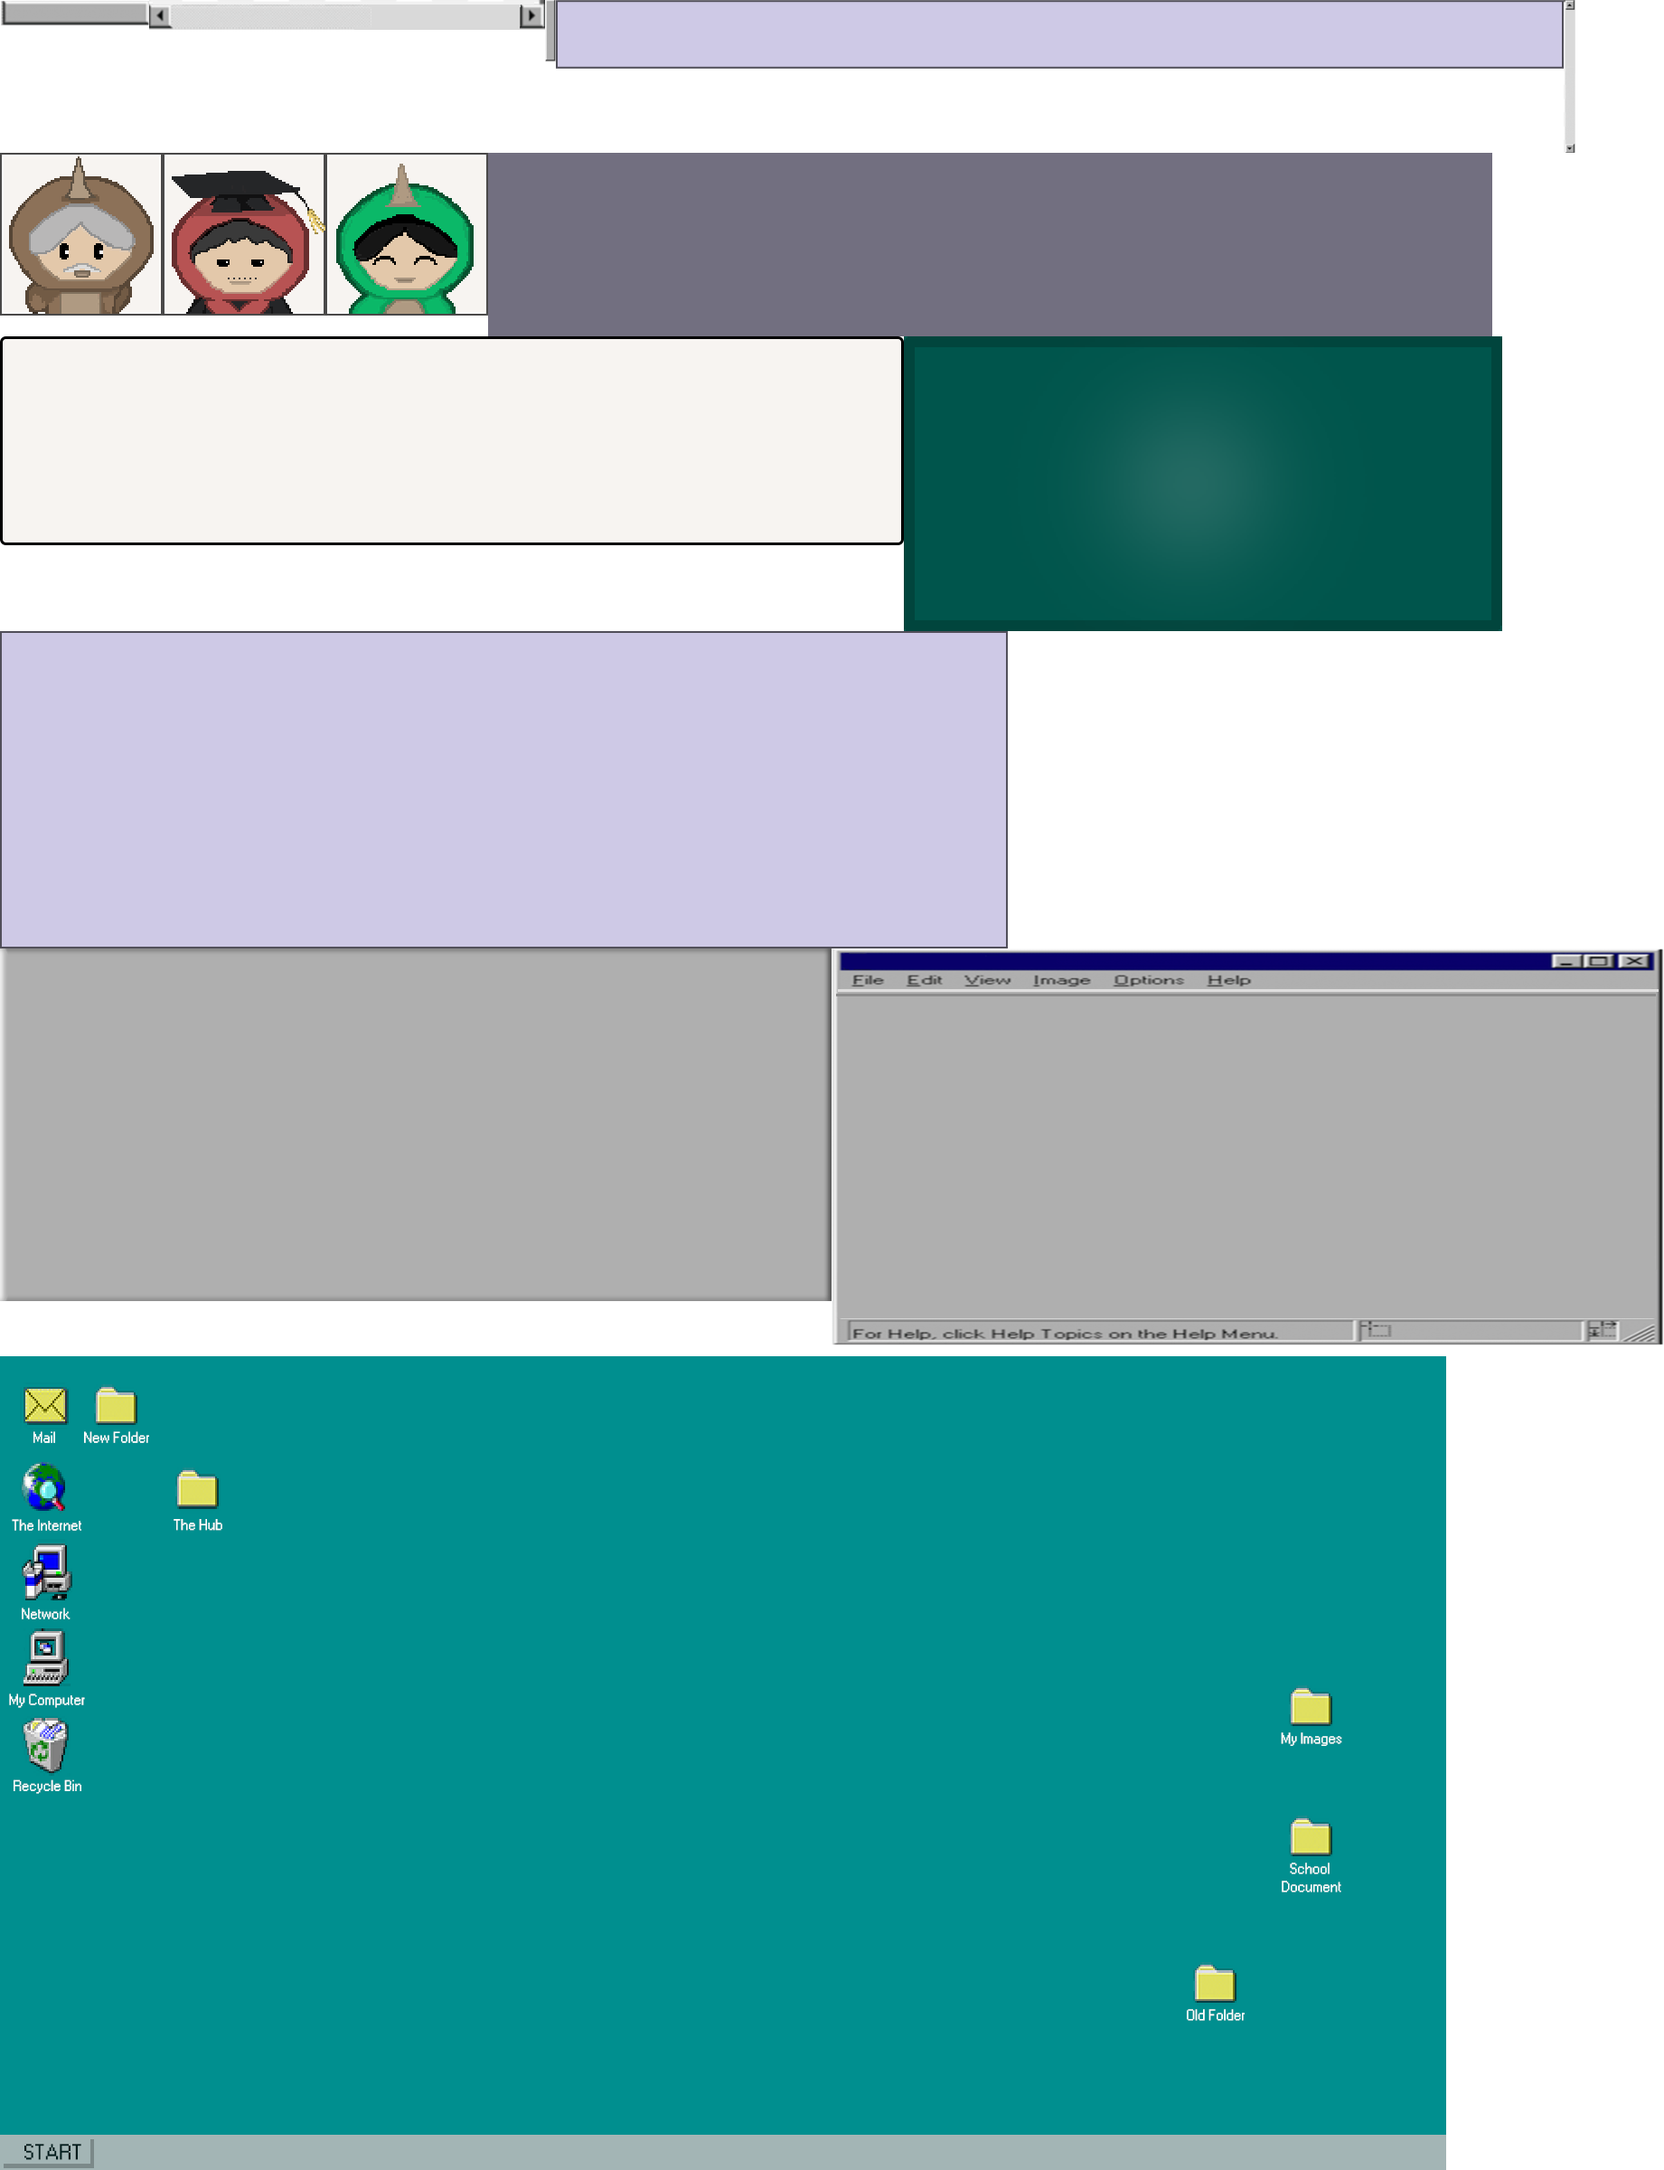
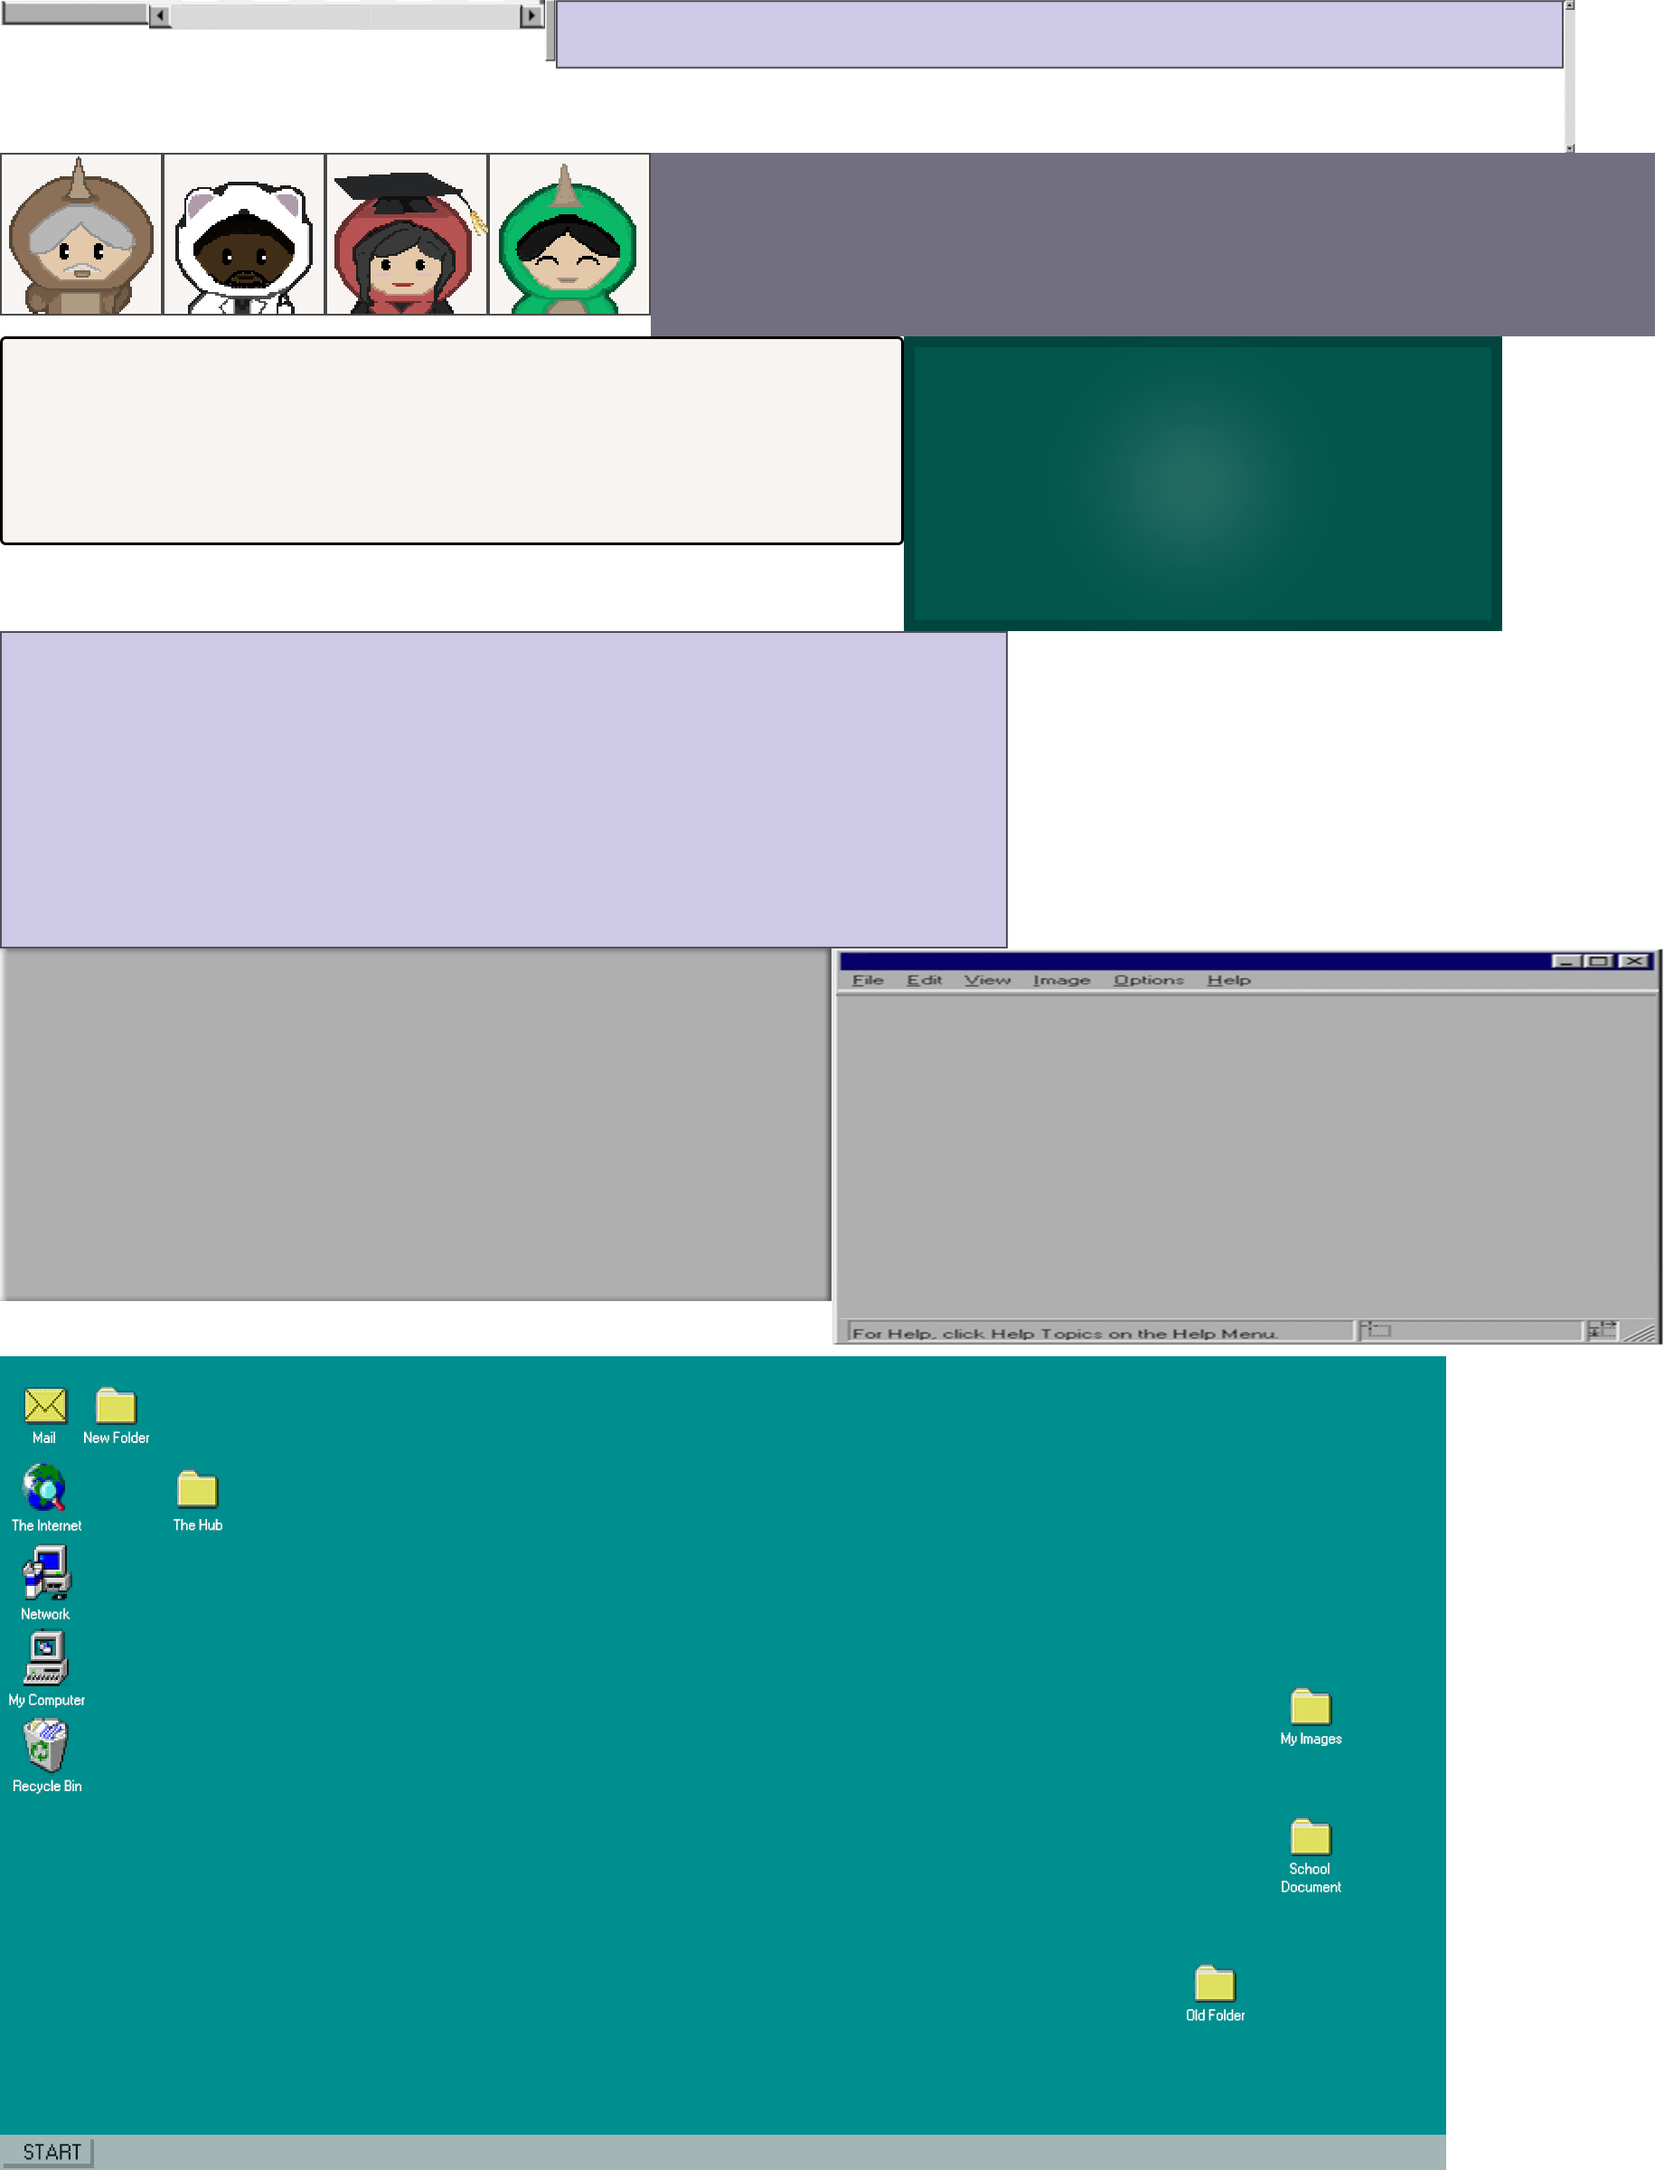
jedisaur sprites

Changed region(s): [[0.0929, 0.0625, 0.4025, 0.1562], [0.8979, 0.0625, 1.0, 0.1562]]

diff --git a/core/src/com/codex/learning/entity/characters/NPC.java b/core/src/com/codex/learning/entity/characters/NPC.java
@@ -22,10 +22,10 @@ import com.codex.learning.utility.Manager;
 
 public class NPC extends Entity {
 
-    private TextureRegion jediGrandpaDown, jediProfDown;
-    private TextureRegion jediGrandpaLeft, jediProfLeft;
-    private TextureRegion jediGrandpaRight, jediProfRight;
-    private TextureRegion jediGrandpaTop, jediProfTop;
+    private TextureRegion jediGrandpaDown, jediProfDown, jediOfficeDown;
+    private TextureRegion jediGrandpaLeft, jediProfLeft, jediOfficeLeft;
+    private TextureRegion jediGrandpaRight, jediProfRight, jediOfficeRight;
+    private TextureRegion jediGrandpaTop, jediProfTop, jediOfficeTop;
     private String direction;
     private boolean inContact;
     private boolean talking;
@@ -51,10 +51,12 @@ public class NPC extends Entity {
         //provides an image of the NPC on the left hand side of the table
 
         image = new Table(manager.getSkin());
-        if(manager.getStageSelector().map().equals("1") || manager.getStageSelector().map().equals("3")){
+        if(manager.getStageSelector().map().equals("1")){
             image.setBackground("jediGrandpaAvatar");
         }else if(manager.getStageSelector().map().equals("2")){
             image.setBackground("jediProfAvatar");
+        }else{
+            image.setBackground("jediOfficeAvatar");
         }
 
         //style of the label (text) that will be added in the table
@@ -103,14 +105,22 @@ public class NPC extends Entity {
         jediGrandpaDown = new TextureRegion(manager.getSpriteSheet(), Constants.JEDI_GRANDPA_X, Constants.JEDI_GRANDPA_Y,
                 Constants.JEDI_GRANDPA_WIDTH,Constants.JEDI_GRANDPA_HEIGHT);
         jediProfDown = new TextureRegion(manager.getSpriteSheet(), Constants.JEDI_PROF_X, Constants.JEDI_PROF_Y, Constants.JEDI_PROF_WIDTH, Constants.JEDI_PROF_HEIGHT);
+        jediOfficeDown = new TextureRegion(manager.getSpriteSheet(), Constants.JEDI_MANAGER_X, Constants.JEDI_MANAGER_Y, Constants.JEDI_MANAGER_WIDTH, Constants.JEDI_MANAGER_HEIGHT);
 
         jediGrandpaLeft = new TextureRegion(manager.getSpriteSheet(), Constants.JEDI_GRANDPA_LEFT_X, Constants.JEDI_GRANDPA_SIDE_Y, Constants.JEDI_GRANDPA_SIDE_WIDTH, Constants.JEDI_GRANDPA_SIDE_HEIGHT);
         jediProfLeft = new TextureRegion(manager.getSpriteSheet(), Constants.JEDI_PROF_LEFT_X, Constants.JEDI_PROF_SIDE_Y, Constants.JEDI_PROF_SIDE_WIDTH, Constants.JEDI_PROF_SIDE_HEIGHT);
+        jediOfficeLeft = new TextureRegion(manager.getSpriteSheet(), Constants.JEDI_MANAGER_LEFT_X, Constants.JEDI_MANAGER_SIDE_Y, Constants.JEDI_MANAGER_SIDE_WIDTH, Constants.JEDI_MANAGER_SIDE_HEIGHT);
+
 
         jediGrandpaRight = new TextureRegion(manager.getSpriteSheet(), Constants.JEDI_GRANDPA_RIGHT_X, Constants.JEDI_GRANDPA_SIDE_Y, Constants.JEDI_GRANDPA_SIDE_WIDTH, Constants.JEDI_GRANDPA_SIDE_HEIGHT);
+        jediProfRight = new TextureRegion(manager.getSpriteSheet(), Constants.JEDI_PROF_RIGHT_X, Constants.JEDI_PROF_SIDE_Y, Constants.JEDI_PROF_SIDE_WIDTH, Constants.JEDI_PROF_SIDE_HEIGHT);
+        jediOfficeRight = new TextureRegion(manager.getSpriteSheet(), Constants.JEDI_MANAGER_RIGHT_X, Constants.JEDI_MANAGER_SIDE_Y, Constants.JEDI_MANAGER_SIDE_WIDTH, Constants.JEDI_MANAGER_SIDE_HEIGHT);
+
 
         jediGrandpaTop = new TextureRegion(manager.getSpriteSheet(), Constants.JEDI_GRANDPA_TOP_X, Constants.JEDI_GRANDPA_TOP_Y, Constants.JEDI_GRANDPA_TOP_WIDTH, Constants.JEDI_GRANDPA_TOP_HEIGHT);
         jediProfTop = new TextureRegion(manager.getSpriteSheet(), Constants.JEDI_PROF_TOP_X, Constants.JEDI_PROF_TOP_Y, Constants.JEDI_PROF_TOP_WIDTH, Constants.JEDI_PROF_TOP_HEIGHT);
+        jediOfficeTop = new TextureRegion(manager.getSpriteSheet(), Constants.JEDI_MANAGER_TOP_X, Constants.JEDI_MANAGER_TOP_Y, Constants.JEDI_MANAGER_TOP_WIDTH, Constants.JEDI_MANAGER_TOP_HEIGHT);
+
 
         direction = "south";
 //        dialogueSkin = new TextureRegion(manager.getPcStateSheet(), Constants.PC_QUESTION_X, Constants.PC_QUESTION_Y, Constants.PC_QUESTION_WIDTH, Constants.PC_QUESTION_HEIGHT);
@@ -127,7 +137,7 @@ public class NPC extends Entity {
         sprite.enableBlending();
         sprite.setProjectionMatrix(manager.getCamera().combined);
         sprite.begin();
-        if(manager.getStageSelector().map().equals("1") || (manager.getStageSelector().map().equals("3"))){
+        if(manager.getStageSelector().map().equals("1")){
             if(isTalking()){
                 switch (direction){
                     case "north":
@@ -154,11 +164,57 @@ public class NPC extends Entity {
             }
 
         }else if(manager.getStageSelector().map().equals("2")) {
-            sprite.draw(jediProfDown, body.getPosition().x * Constants.PPM - jediGrandpaDown.getRegionWidth() / 2,
-                    body.getPosition().y * Constants.PPM - jediGrandpaDown.getRegionHeight() / 2);
+            if(isTalking()){
+                switch (direction){
+                    case "north":
+                        sprite.draw(jediProfTop, body.getPosition().x * Constants.PPM - jediProfTop.getRegionWidth() / 2,
+                                body.getPosition().y * Constants.PPM - jediProfTop.getRegionHeight() / 2);
+                        break;
+                    case "south":
+                        sprite.draw(jediProfDown, body.getPosition().x * Constants.PPM - jediProfDown.getRegionWidth() / 2,
+                                body.getPosition().y * Constants.PPM - jediProfDown.getRegionHeight() / 2);
+                        break;
+                    case "east":
+                        sprite.draw(jediProfRight, body.getPosition().x * Constants.PPM - jediProfRight.getRegionWidth() / 2,
+                                body.getPosition().y * Constants.PPM - jediProfRight.getRegionHeight() / 2);
+                        break;
+                    case "west":
+                        sprite.draw(jediProfLeft, body.getPosition().x * Constants.PPM - jediProfLeft.getRegionWidth() / 2,
+                                body.getPosition().y * Constants.PPM - jediProfLeft.getRegionHeight() / 2);
+                        break;
+                }
+            }
+            else {
+                sprite.draw(jediProfDown, body.getPosition().x * Constants.PPM - jediProfDown.getRegionWidth() / 2,
+                        body.getPosition().y * Constants.PPM - jediProfDown.getRegionHeight() / 2);
+            }
+
         }
         else {
-
+            if(isTalking()){
+                switch (direction){
+                    case "north":
+                        sprite.draw(jediOfficeTop, body.getPosition().x * Constants.PPM - jediOfficeTop.getRegionWidth() / 2,
+                                body.getPosition().y * Constants.PPM - jediOfficeTop.getRegionHeight() / 2);
+                        break;
+                    case "south":
+                        sprite.draw(jediOfficeDown, body.getPosition().x * Constants.PPM - jediOfficeDown.getRegionWidth() / 2,
+                                body.getPosition().y * Constants.PPM - jediOfficeDown.getRegionHeight() / 2);
+                        break;
+                    case "east":
+                        sprite.draw(jediOfficeRight, body.getPosition().x * Constants.PPM - jediOfficeRight.getRegionWidth() / 2,
+                                body.getPosition().y * Constants.PPM - jediOfficeRight.getRegionHeight() / 2);
+                        break;
+                    case "west":
+                        sprite.draw(jediOfficeLeft, body.getPosition().x * Constants.PPM - jediOfficeLeft.getRegionWidth() / 2,
+                                body.getPosition().y * Constants.PPM - jediOfficeLeft.getRegionHeight() / 2);
+                        break;
+                }
+            }
+            else {
+                sprite.draw(jediOfficeDown, body.getPosition().x * Constants.PPM - jediOfficeDown.getRegionWidth() / 2,
+                        body.getPosition().y * Constants.PPM - jediOfficeDown.getRegionHeight() / 2);
+            }
         }
 
         table.draw(sprite, 1);

diff --git a/core/src/com/codex/learning/utility/Constants.java b/core/src/com/codex/learning/utility/Constants.java
@@ -317,13 +317,31 @@ public class Constants {
     public static final int JEDI_PROF_SIDE_WIDTH = 84;
     public static final int JEDI_PROF_SIDE_HEIGHT = 118;
     public static final int JEDI_PROF_LEFT_X = 205;
-    public static final int JEDI_PROF_RIGHT_X = 81;
+    public static final int JEDI_PROF_RIGHT_X = 384;
     public static final int JEDI_PROF_SIDE_Y = 461;
 
     public static final int JEDI_PROF_TOP_WIDTH = 92;
     public static final int JEDI_PROF_TOP_HEIGHT = 118;
     public static final int JEDI_PROF_TOP_X = 290;
     public static final int JEDI_PROF_TOP_Y = 461;
+
+    public static final int JEDI_MANAGER_X = 2;
+    public static final int JEDI_MANAGER_Y = 602;
+    public static final int JEDI_MANAGER_WIDTH = 84;
+    public static final int JEDI_MANAGER_HEIGHT = 110;
+
+    public static final int JEDI_MANAGER_SIDE_WIDTH = 75;
+    public static final int JEDI_MANAGER_SIDE_HEIGHT = 110;
+    public static final int JEDI_MANAGER_LEFT_X = 170;
+    public static final int JEDI_MANAGER_RIGHT_X = 95;
+    public static final int JEDI_MANAGER_SIDE_Y = 602;
+
+    public static final int JEDI_MANAGER_TOP_WIDTH = 84;
+    public static final int JEDI_MANAGER_TOP_HEIGHT = 110;
+    public static final int JEDI_MANAGER_TOP_X = 253;
+    public static final int JEDI_MANAGER_TOP_Y = 602;
+
+
     //END OF JEDISAUR SPRITE SHEET
 
     //BLOCK SHEET
